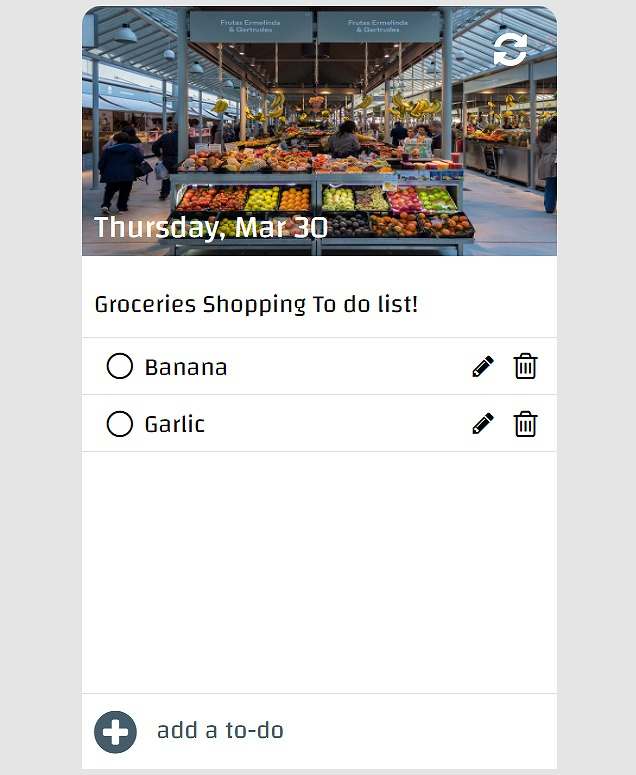
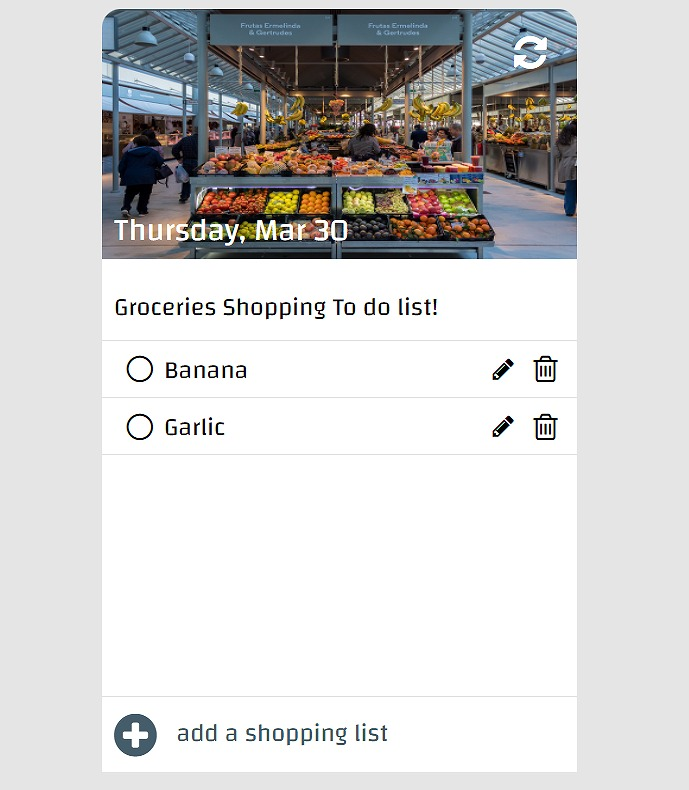
update placeholder name in mainpage

Changed region(s): [[0.1195, 0.0, 0.8962, 1.0]]

diff --git a/mainpage/mainpage.html b/mainpage/mainpage.html
@@ -33,7 +33,7 @@
       </div>
       <div class="add-to-do">
         <i class="fa fa-plus-circle" aria-hidden="true"></i>
-        <input type="text" id="input" placeholder="add a to-do" />
+        <input type="text" id="input" placeholder="add a shopping list" />
       </div>
     </div>
     <script src="./app.js"></script>
